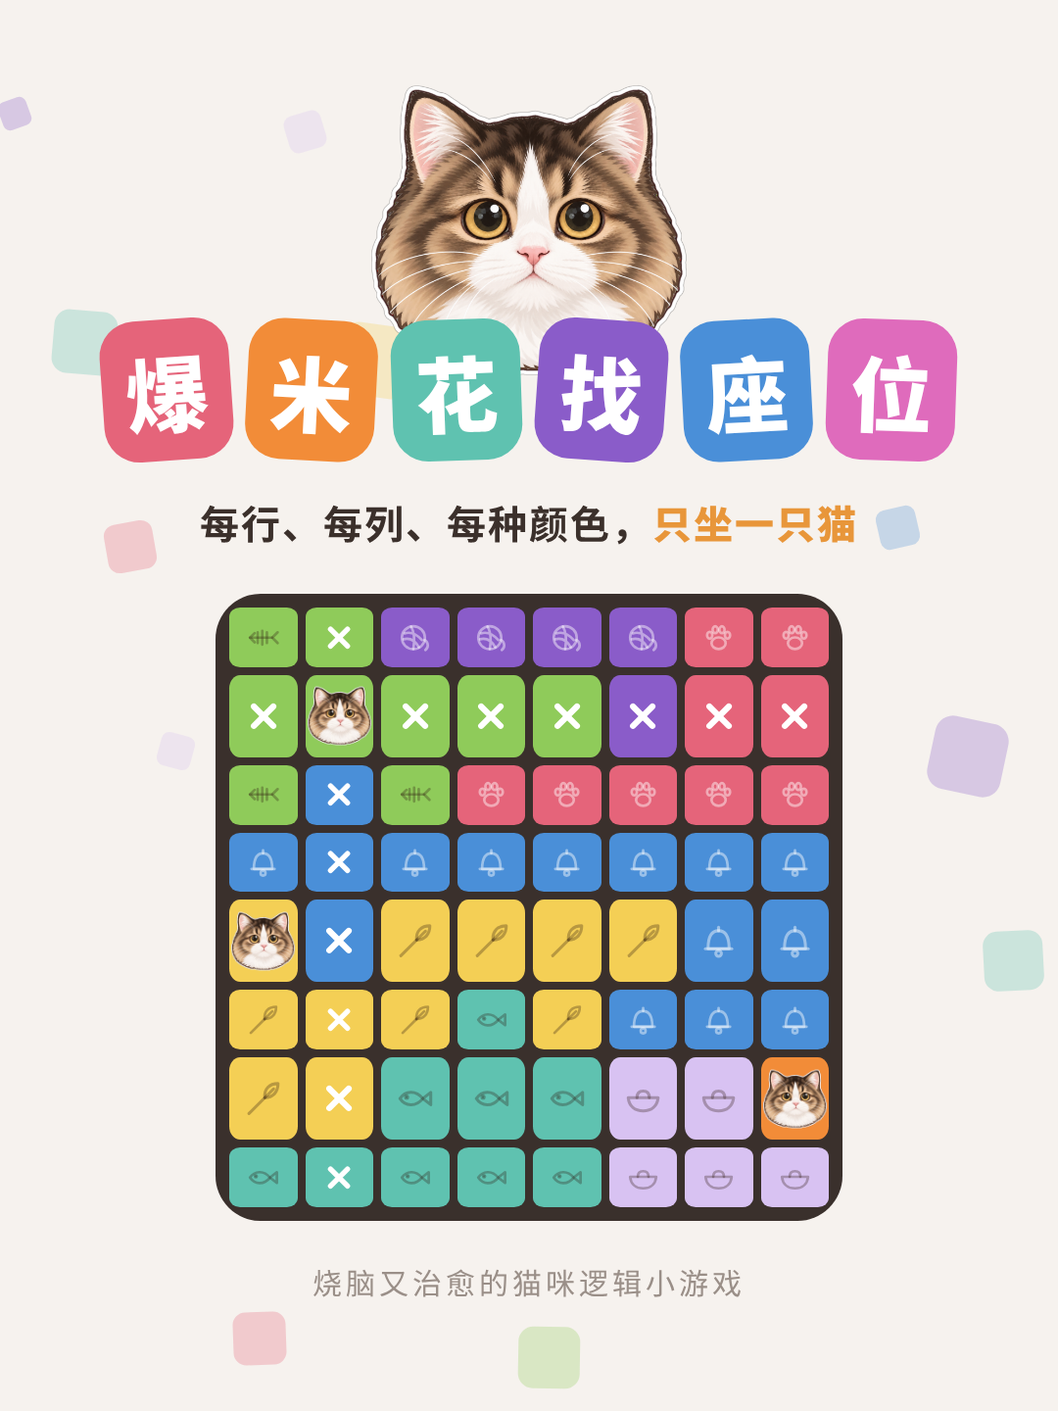
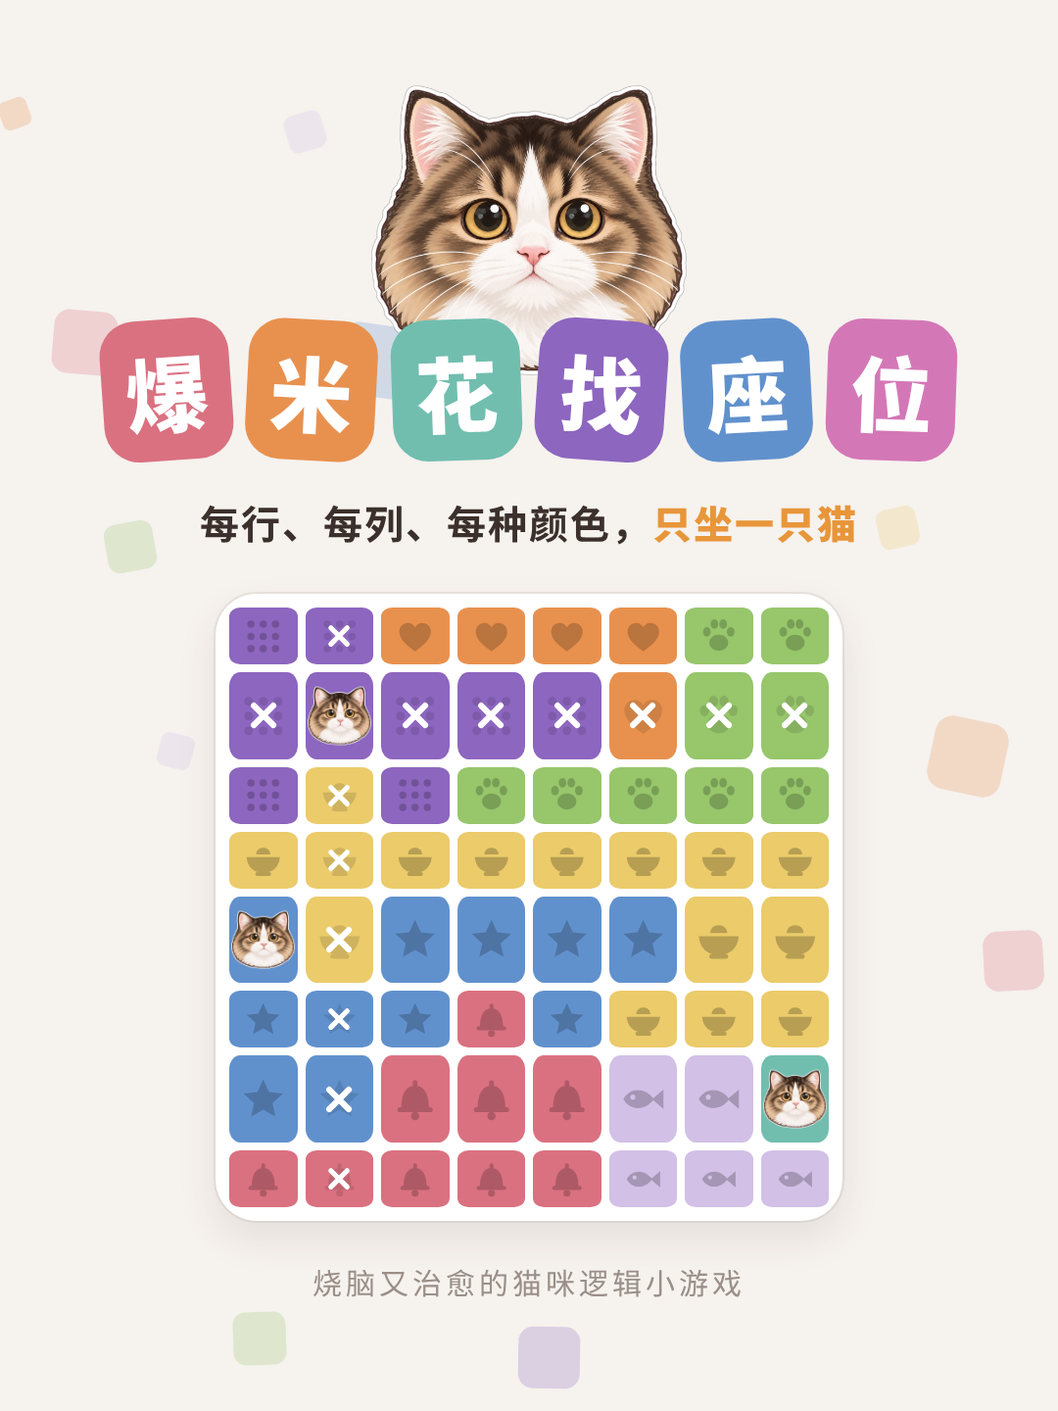
原型 v1.8：格子图案重排，12种图案轮廓结构各不相同（只留圆点一种方阵，其余为大爱心、猫爪、猫碗、星星、铃铛、毛线球、大鱼、猫脸、斜条纹、猫薄荷、波浪）；封面换成白底棋盘新风格
Claude-Session: https://claude.ai/code/session_013PJ7PjSvMbjKJhBYBfa6R5

diff --git a/index.html b/index.html
@@ -296,7 +296,7 @@ body.th-halloween .lv.hard { background: #F6DCE6; }
   <div class="brand">
     <img id="brandImg" alt="">
     <h1 class="logo" id="logo" aria-label="爆米花找座位"></h1>
-    <p>原型 v1.8 · 白底棋盘、纹理图案</p>
+    <p>原型 v1.8 · 白底棋盘、新图案</p>
   </div>
   <div class="homebar">
     <button class="pill" id="cansPill" title="商店"><svg viewBox="0 0 24 24" aria-hidden="true"><use class="curuse" href="#can"/></svg><b id="homeCans">0</b></button>
@@ -512,18 +512,19 @@ body.th-halloween .lv.hard { background: #F6DCE6; }
     <symbol id="r-reg" viewBox="0 0 30 30"><rect x="1" y="1" width="28" height="28" rx="7" fill="#F2F2F7"/><path d="M4 4 H18 V12 H26 V26 H12 V18 H4 Z" fill="#C9B2FF"/><circle cx="20" cy="19" r="2.8" fill="#1C1C1E"/><path d="M7 7 l3 3 m0 -3 l-3 3" stroke="#8E8E93" stroke-width="1.4" stroke-linecap="round"/></symbol>
     <symbol id="r-adj" viewBox="0 0 30 30"><rect x="1" y="1" width="28" height="28" rx="7" fill="#F2F2F7"/><rect x="6" y="6" width="18" height="18" rx="4" fill="#FFB3C7"/><circle cx="15" cy="15" r="2.8" fill="#1C1C1E"/><path d="M8 8 l2.6 2.6 m0 -2.6 l-2.6 2.6 M19.4 8 l2.6 2.6 m0 -2.6 l-2.6 2.6 M8 19.4 l2.6 2.6 m0 -2.6 l-2.6 2.6 M19.4 19.4 l2.6 2.6 m0 -2.6 l-2.6 2.6" stroke="#8E8E93" stroke-width="1.3" stroke-linecap="round"/></symbol>
     <!-- 颜色区图案：猫零食和玩具的白色剪影，一个区一个 -->
-    <symbol id="p0" viewBox="0 0 24 24"><g fill="currentColor"><path transform="translate(7.5 7.5) scale(1.1)" d="M0 3.2 C-2.6 1.4 -3.6 .2 -3.6 -1.2 C-3.6 -2.4 -2.7 -3.2 -1.7 -3.2 C-1 -3.2 -.4 -2.8 0 -2.2 C.4 -2.8 1 -3.2 1.7 -3.2 C2.7 -3.2 3.6 -2.4 3.6 -1.2 C3.6 .2 2.6 1.4 0 3.2 Z"/><path transform="translate(7.5 16.5) scale(1.1)" d="M0 3.2 C-2.6 1.4 -3.6 .2 -3.6 -1.2 C-3.6 -2.4 -2.7 -3.2 -1.7 -3.2 C-1 -3.2 -.4 -2.8 0 -2.2 C.4 -2.8 1 -3.2 1.7 -3.2 C2.7 -3.2 3.6 -2.4 3.6 -1.2 C3.6 .2 2.6 1.4 0 3.2 Z"/><path transform="translate(16.5 7.5) scale(1.1)" d="M0 3.2 C-2.6 1.4 -3.6 .2 -3.6 -1.2 C-3.6 -2.4 -2.7 -3.2 -1.7 -3.2 C-1 -3.2 -.4 -2.8 0 -2.2 C.4 -2.8 1 -3.2 1.7 -3.2 C2.7 -3.2 3.6 -2.4 3.6 -1.2 C3.6 .2 2.6 1.4 0 3.2 Z"/><path transform="translate(16.5 16.5) scale(1.1)" d="M0 3.2 C-2.6 1.4 -3.6 .2 -3.6 -1.2 C-3.6 -2.4 -2.7 -3.2 -1.7 -3.2 C-1 -3.2 -.4 -2.8 0 -2.2 C.4 -2.8 1 -3.2 1.7 -3.2 C2.7 -3.2 3.6 -2.4 3.6 -1.2 C3.6 .2 2.6 1.4 0 3.2 Z"/></g></symbol><!-- 爱心纹 -->
-    <symbol id="p1" viewBox="0 0 24 24"><g fill="currentColor"><circle cx="5" cy="5" r="2"/><circle cx="5" cy="12" r="2"/><circle cx="5" cy="19" r="2"/><circle cx="12" cy="5" r="2"/><circle cx="12" cy="12" r="2"/><circle cx="12" cy="19" r="2"/><circle cx="19" cy="5" r="2"/><circle cx="19" cy="12" r="2"/><circle cx="19" cy="19" r="2"/></g></symbol><!-- 圆点纹 -->
-    <symbol id="p2" viewBox="0 0 24 24"><g fill="currentColor"><ellipse cx="12" cy="15.4" rx="5" ry="4.2"/><ellipse cx="5.6" cy="9.6" rx="2" ry="2.5"/><ellipse cx="9.6" cy="5.6" rx="2" ry="2.5"/><ellipse cx="14.4" cy="5.6" rx="2" ry="2.5"/><ellipse cx="18.4" cy="9.6" rx="2" ry="2.5"/></g></symbol><!-- 猫爪 -->
-    <symbol id="p3" viewBox="0 0 24 24"><g fill="currentColor"><path d="M2.5 12 L6.5 8.4 V15.6 Z"/><rect x="5.5" y="11" width="13" height="2" rx="1"/><rect x="8" y="7.2" width="1.8" height="9.6" rx=".9"/><rect x="11.4" y="6.4" width="1.8" height="11.2" rx=".9"/><rect x="14.8" y="7.2" width="1.8" height="9.6" rx=".9"/><path d="M18 12 L21.8 8.2 V15.8 Z"/></g></symbol><!-- 鱼骨 -->
-    <symbol id="p4" viewBox="0 0 24 24"><g fill="currentColor"><path d="M4.7 2.9 h1.6 v1.8 h1.8 v1.6 h-1.8 v1.8 h-1.6 v-1.8 h-1.8 v-1.6 h1.8 Z"/><path d="M4.7 9.4 h1.6 v1.8 h1.8 v1.6 h-1.8 v1.8 h-1.6 v-1.8 h-1.8 v-1.6 h1.8 Z"/><path d="M4.7 15.9 h1.6 v1.8 h1.8 v1.6 h-1.8 v1.8 h-1.6 v-1.8 h-1.8 v-1.6 h1.8 Z"/><path d="M11.2 2.9 h1.6 v1.8 h1.8 v1.6 h-1.8 v1.8 h-1.6 v-1.8 h-1.8 v-1.6 h1.8 Z"/><path d="M11.2 9.4 h1.6 v1.8 h1.8 v1.6 h-1.8 v1.8 h-1.6 v-1.8 h-1.8 v-1.6 h1.8 Z"/><path d="M11.2 15.9 h1.6 v1.8 h1.8 v1.6 h-1.8 v1.8 h-1.6 v-1.8 h-1.8 v-1.6 h1.8 Z"/><path d="M17.7 2.9 h1.6 v1.8 h1.8 v1.6 h-1.8 v1.8 h-1.6 v-1.8 h-1.8 v-1.6 h1.8 Z"/><path d="M17.7 9.4 h1.6 v1.8 h1.8 v1.6 h-1.8 v1.8 h-1.6 v-1.8 h-1.8 v-1.6 h1.8 Z"/><path d="M17.7 15.9 h1.6 v1.8 h1.8 v1.6 h-1.8 v1.8 h-1.6 v-1.8 h-1.8 v-1.6 h1.8 Z"/></g></symbol><!-- 十字纹 -->
-    <symbol id="p5" viewBox="0 0 24 24"><g fill="currentColor"><path d="M5.6 16.6 C5.6 9 8.3 6 12 6 C15.7 6 18.4 9 18.4 16.6 Z"/><rect x="4" y="16" width="16" height="2.2" rx="1.1"/><circle cx="12" cy="19.8" r="1.9"/><rect x="11" y="3.6" width="2" height="3" rx="1"/></g></symbol><!-- 铃铛 -->
-    <symbol id="p6" viewBox="0 0 24 24"><g fill="currentColor"><circle cx="11.5" cy="12" r="8"/><path d="M5 9.4 C9 8 13.4 9.6 17 13.8 M4.4 13.4 C8.6 12.4 12 14 14.6 18.8 M9.6 4.4 C11.8 7.8 12.6 12 11.2 19.8" fill="none" stroke="var(--cellc)" stroke-width="1.5" stroke-linecap="round"/><path d="M19.2 14 C21.6 15.4 21.4 18.8 19 20.2" fill="none" stroke="currentColor" stroke-width="1.6" stroke-linecap="round"/></g></symbol><!-- 毛线球 -->
-    <symbol id="p7" viewBox="0 0 24 24"><g fill="currentColor"><path transform="translate(7.5 7.2) scale(1.05)" d="M-3.6 0 C-2.2 -2.2 1.2 -2.4 2.6 0 C1.2 2.4 -2.2 2.2 -3.6 0 Z M2.4 0 L4.2 -1.6 V1.6 Z"/><path transform="translate(16.5 7.2) scale(1.05)" d="M-3.6 0 C-2.2 -2.2 1.2 -2.4 2.6 0 C1.2 2.4 -2.2 2.2 -3.6 0 Z M2.4 0 L4.2 -1.6 V1.6 Z"/><path transform="translate(7.5 16.8) scale(1.05)" d="M-3.6 0 C-2.2 -2.2 1.2 -2.4 2.6 0 C1.2 2.4 -2.2 2.2 -3.6 0 Z M2.4 0 L4.2 -1.6 V1.6 Z"/><path transform="translate(16.5 16.8) scale(1.05)" d="M-3.6 0 C-2.2 -2.2 1.2 -2.4 2.6 0 C1.2 2.4 -2.2 2.2 -3.6 0 Z M2.4 0 L4.2 -1.6 V1.6 Z"/></g></symbol><!-- 小鱼纹 -->
-    <symbol id="p8" viewBox="0 0 24 24"><g fill="currentColor"><path d="M10 11 H14 L12 13.4 Z"/><path d="M9 14.2 L3 13 M9 15.6 L3 16.6 M15 14.2 L21 13 M15 15.6 L21 16.6" fill="none" stroke="currentColor" stroke-width="1.6" stroke-linecap="round"/><circle cx="8" cy="8" r="1.5"/><circle cx="16" cy="8" r="1.5"/></g></symbol><!-- 猫胡须 -->
-    <symbol id="p9" viewBox="0 0 24 24"><g fill="currentColor"><path d="M5.5 3.8 L7.9 7.8 H3.1 Z"/><path d="M5.5 10.3 L7.9 14.3 H3.1 Z"/><path d="M5.5 16.8 L7.9 20.8 H3.1 Z"/><path d="M12 3.8 L14.4 7.8 H9.6 Z"/><path d="M12 10.3 L14.4 14.3 H9.6 Z"/><path d="M12 16.8 L14.4 20.8 H9.6 Z"/><path d="M18.5 3.8 L20.9 7.8 H16.1 Z"/><path d="M18.5 10.3 L20.9 14.3 H16.1 Z"/><path d="M18.5 16.8 L20.9 20.8 H16.1 Z"/></g></symbol><!-- 猫耳纹 -->
-    <symbol id="p10" viewBox="0 0 24 24"><g fill="currentColor"><path d="M12 21 C11.6 17 11.6 13 12 9" fill="none" stroke="currentColor" stroke-width="1.7" stroke-linecap="round"/><path d="M12 12 C7.5 12.5 4.5 9.5 4 4.8 C8.7 5.2 11.7 8 12 12 Z M12 12 C16.5 12.5 19.5 9.5 20 4.8 C15.3 5.2 12.3 8 12 12 Z"/></g></symbol><!-- 猫薄荷 -->
-    <symbol id="p11" viewBox="0 0 24 24"><g fill="currentColor"><path d="M3 6.5 Q6 3.3 9 6.5 T15 6.5 T21 6.5" fill="none" stroke="currentColor" stroke-width="2" stroke-linecap="round"/><path d="M3 12.5 Q6 9.3 9 12.5 T15 12.5 T21 12.5" fill="none" stroke="currentColor" stroke-width="2" stroke-linecap="round"/><path d="M3 18.5 Q6 15.3 9 18.5 T15 18.5 T21 18.5" fill="none" stroke="currentColor" stroke-width="2" stroke-linecap="round"/></g></symbol><!-- 波浪纹 -->
+    <clipPath id="pClip"><rect x="2" y="2" width="20" height="20" rx="4"/></clipPath>
+    <symbol id="p0" viewBox="0 0 24 24"><g fill="currentColor"><path d="M12 20.5 C5.5 16 3 12.8 3 9.2 C3 6.4 5.2 4.3 7.9 4.3 C9.7 4.3 11.2 5.3 12 6.8 C12.8 5.3 14.3 4.3 16.1 4.3 C18.8 4.3 21 6.4 21 9.2 C21 12.8 18.5 16 12 20.5 Z"/></g></symbol><!-- 大爱心 -->
+    <symbol id="p1" viewBox="0 0 24 24"><g fill="currentColor"><circle cx="5" cy="5" r="2.1"/><circle cx="5" cy="12" r="2.1"/><circle cx="5" cy="19" r="2.1"/><circle cx="12" cy="5" r="2.1"/><circle cx="12" cy="12" r="2.1"/><circle cx="12" cy="19" r="2.1"/><circle cx="19" cy="5" r="2.1"/><circle cx="19" cy="12" r="2.1"/><circle cx="19" cy="19" r="2.1"/></g></symbol><!-- 圆点阵 -->
+    <symbol id="p2" viewBox="0 0 24 24"><g fill="currentColor"><ellipse cx="12" cy="15.6" rx="5.4" ry="4.6"/><ellipse cx="5.2" cy="9.4" rx="2.2" ry="2.7"/><ellipse cx="9.5" cy="5" rx="2.2" ry="2.7"/><ellipse cx="14.5" cy="5" rx="2.2" ry="2.7"/><ellipse cx="18.8" cy="9.4" rx="2.2" ry="2.7"/></g></symbol><!-- 猫爪 -->
+    <symbol id="p3" viewBox="0 0 24 24"><g fill="currentColor"><path d="M2.5 10.5 H21.5 C21 16.5 17 19.5 12 19.5 C7 19.5 3 16.5 2.5 10.5 Z"/><rect x="7.5" y="19" width="9" height="2.2" rx="1.1"/><path d="M8 9 C8 6.5 9.8 5.2 12 5.2 C14.2 5.2 16 6.5 16 9 Z"/></g></symbol><!-- 猫碗 -->
+    <symbol id="p4" viewBox="0 0 24 24"><g fill="currentColor"><path d="M12 2.6 L14.8 8.6 L21.4 9.3 L16.4 13.8 L17.8 20.3 L12 17 L6.2 20.3 L7.6 13.8 L2.6 9.3 L9.2 8.6 Z"/></g></symbol><!-- 星星 -->
+    <symbol id="p5" viewBox="0 0 24 24"><g fill="currentColor"><path d="M5.4 16.4 C5.4 8.8 8.2 5.6 12 5.6 C15.8 5.6 18.6 8.8 18.6 16.4 Z"/><rect x="3.6" y="15.8" width="16.8" height="2.4" rx="1.2"/><circle cx="12" cy="20" r="2"/><rect x="10.9" y="3" width="2.2" height="3.4" rx="1.1"/></g></symbol><!-- 铃铛 -->
+    <symbol id="p6" viewBox="0 0 24 24"><g fill="currentColor"><circle cx="11.5" cy="12" r="8.6"/><path d="M4.6 9.2 C9 7.8 13.6 9.6 17.4 14 M4 13.4 C8.6 12.4 12.2 14.2 14.8 19.2 M9.4 3.8 C11.8 7.4 12.6 12 11.2 20.4" fill="none" stroke="var(--cellc)" stroke-width="1.6" stroke-linecap="round"/><path d="M19.6 14.4 C22 15.8 21.8 19.2 19.4 20.6" fill="none" stroke="currentColor" stroke-width="1.8" stroke-linecap="round"/></g></symbol><!-- 毛线球 -->
+    <symbol id="p7" viewBox="0 0 24 24"><g fill="currentColor"><path d="M2.5 12 C5.5 6.6 12.5 6 17 12 C12.5 18 5.5 17.4 2.5 12 Z"/><path d="M16.2 12 L21.6 7.4 V16.6 Z"/><circle cx="7" cy="11" r="1.2" fill="var(--cellc)"/></g></symbol><!-- 大鱼 -->
+    <symbol id="p8" viewBox="0 0 24 24"><g fill="currentColor"><ellipse cx="8.2" cy="9" rx="1.7" ry="2.2"/><ellipse cx="15.8" cy="9" rx="1.7" ry="2.2"/><path d="M9.8 13 H14.2 L12 15.6 Z"/><path d="M8.6 15.4 L2.6 14 M8.6 17.2 L2.6 18.4 M15.4 15.4 L21.4 14 M15.4 17.2 L21.4 18.4" fill="none" stroke="currentColor" stroke-width="1.8" stroke-linecap="round"/></g></symbol><!-- 猫脸胡须 -->
+    <symbol id="p9" viewBox="0 0 24 24"><g fill="currentColor"><g clip-path="url(#pClip)"><path d="M-18 26 L8 0" fill="none" stroke="currentColor" stroke-width="3" stroke-linecap="round"/><path d="M-10 26 L16 0" fill="none" stroke="currentColor" stroke-width="3" stroke-linecap="round"/><path d="M-2 26 L24 0" fill="none" stroke="currentColor" stroke-width="3" stroke-linecap="round"/><path d="M6 26 L32 0" fill="none" stroke="currentColor" stroke-width="3" stroke-linecap="round"/></g></g></symbol><!-- 斜条纹 -->
+    <symbol id="p10" viewBox="0 0 24 24"><g fill="currentColor"><path d="M12 21.5 C11.6 17 11.6 13 12 9.4" fill="none" stroke="currentColor" stroke-width="1.9" stroke-linecap="round"/><path d="M12 12.4 C7 13 3.6 9.6 3 4.4 C8.2 4.8 11.6 8 12 12.4 Z M12 12.4 C17 13 20.4 9.6 21 4.4 C15.8 4.8 12.4 8 12 12.4 Z"/></g></symbol><!-- 猫薄荷 -->
+    <symbol id="p11" viewBox="0 0 24 24"><g fill="currentColor"><path d="M2.5 6.5 Q5.6 3.1 8.8 6.5 T15.1 6.5 T21.4 6.5" fill="none" stroke="currentColor" stroke-width="2.2" stroke-linecap="round"/><path d="M2.5 12.5 Q5.6 9.1 8.8 12.5 T15.1 12.5 T21.4 12.5" fill="none" stroke="currentColor" stroke-width="2.2" stroke-linecap="round"/><path d="M2.5 18.5 Q5.6 15.1 8.8 18.5 T15.1 18.5 T21.4 18.5" fill="none" stroke="currentColor" stroke-width="2.2" stroke-linecap="round"/></g></symbol><!-- 波浪纹 -->
   </defs>
 </svg>
 
@@ -912,7 +913,7 @@ function tick() {
 function colorOf(g) { return REGION_COLORS[G.colors[g]]; }
 /* 图案颜色：同一种颜色压暗一点（像布料上的暗纹），--cellc 给毛线球“刻线”用 */
 function shade(hex, k) { return "#" + [1, 3, 5].map(i => Math.round(parseInt(hex.slice(i, i + 2), 16) * k).toString(16).padStart(2, "0")).join(""); }
-function patInk(g) { const c = colorOf(g); return `color:${shade(c, LABS[G.colors[g]][0] > 75 ? .84 : .8)};--cellc:${c}`; }
+function patInk(g) { const c = colorOf(g); return `color:${shade(c, LABS[G.colors[g]][0] > 75 ? .78 : .8)};--cellc:${c}`; }
 function buildBoard() {
   const { n, reg } = G, b = $("board");
   b.style.setProperty("--n", n);

diff --git a/src/template.html b/src/template.html
@@ -296,7 +296,7 @@ body.th-halloween .lv.hard { background: #F6DCE6; }
   <div class="brand">
     <img id="brandImg" alt="">
     <h1 class="logo" id="logo" aria-label="爆米花找座位"></h1>
-    <p>原型 v1.8 · 白底棋盘、纹理图案</p>
+    <p>原型 v1.8 · 白底棋盘、新图案</p>
   </div>
   <div class="homebar">
     <button class="pill" id="cansPill" title="商店"><svg viewBox="0 0 24 24" aria-hidden="true"><use class="curuse" href="#can"/></svg><b id="homeCans">0</b></button>
@@ -512,18 +512,19 @@ body.th-halloween .lv.hard { background: #F6DCE6; }
     <symbol id="r-reg" viewBox="0 0 30 30"><rect x="1" y="1" width="28" height="28" rx="7" fill="#F2F2F7"/><path d="M4 4 H18 V12 H26 V26 H12 V18 H4 Z" fill="#C9B2FF"/><circle cx="20" cy="19" r="2.8" fill="#1C1C1E"/><path d="M7 7 l3 3 m0 -3 l-3 3" stroke="#8E8E93" stroke-width="1.4" stroke-linecap="round"/></symbol>
     <symbol id="r-adj" viewBox="0 0 30 30"><rect x="1" y="1" width="28" height="28" rx="7" fill="#F2F2F7"/><rect x="6" y="6" width="18" height="18" rx="4" fill="#FFB3C7"/><circle cx="15" cy="15" r="2.8" fill="#1C1C1E"/><path d="M8 8 l2.6 2.6 m0 -2.6 l-2.6 2.6 M19.4 8 l2.6 2.6 m0 -2.6 l-2.6 2.6 M8 19.4 l2.6 2.6 m0 -2.6 l-2.6 2.6 M19.4 19.4 l2.6 2.6 m0 -2.6 l-2.6 2.6" stroke="#8E8E93" stroke-width="1.3" stroke-linecap="round"/></symbol>
     <!-- 颜色区图案：猫零食和玩具的白色剪影，一个区一个 -->
-    <symbol id="p0" viewBox="0 0 24 24"><g fill="currentColor"><path transform="translate(7.5 7.5) scale(1.1)" d="M0 3.2 C-2.6 1.4 -3.6 .2 -3.6 -1.2 C-3.6 -2.4 -2.7 -3.2 -1.7 -3.2 C-1 -3.2 -.4 -2.8 0 -2.2 C.4 -2.8 1 -3.2 1.7 -3.2 C2.7 -3.2 3.6 -2.4 3.6 -1.2 C3.6 .2 2.6 1.4 0 3.2 Z"/><path transform="translate(7.5 16.5) scale(1.1)" d="M0 3.2 C-2.6 1.4 -3.6 .2 -3.6 -1.2 C-3.6 -2.4 -2.7 -3.2 -1.7 -3.2 C-1 -3.2 -.4 -2.8 0 -2.2 C.4 -2.8 1 -3.2 1.7 -3.2 C2.7 -3.2 3.6 -2.4 3.6 -1.2 C3.6 .2 2.6 1.4 0 3.2 Z"/><path transform="translate(16.5 7.5) scale(1.1)" d="M0 3.2 C-2.6 1.4 -3.6 .2 -3.6 -1.2 C-3.6 -2.4 -2.7 -3.2 -1.7 -3.2 C-1 -3.2 -.4 -2.8 0 -2.2 C.4 -2.8 1 -3.2 1.7 -3.2 C2.7 -3.2 3.6 -2.4 3.6 -1.2 C3.6 .2 2.6 1.4 0 3.2 Z"/><path transform="translate(16.5 16.5) scale(1.1)" d="M0 3.2 C-2.6 1.4 -3.6 .2 -3.6 -1.2 C-3.6 -2.4 -2.7 -3.2 -1.7 -3.2 C-1 -3.2 -.4 -2.8 0 -2.2 C.4 -2.8 1 -3.2 1.7 -3.2 C2.7 -3.2 3.6 -2.4 3.6 -1.2 C3.6 .2 2.6 1.4 0 3.2 Z"/></g></symbol><!-- 爱心纹 -->
-    <symbol id="p1" viewBox="0 0 24 24"><g fill="currentColor"><circle cx="5" cy="5" r="2"/><circle cx="5" cy="12" r="2"/><circle cx="5" cy="19" r="2"/><circle cx="12" cy="5" r="2"/><circle cx="12" cy="12" r="2"/><circle cx="12" cy="19" r="2"/><circle cx="19" cy="5" r="2"/><circle cx="19" cy="12" r="2"/><circle cx="19" cy="19" r="2"/></g></symbol><!-- 圆点纹 -->
-    <symbol id="p2" viewBox="0 0 24 24"><g fill="currentColor"><ellipse cx="12" cy="15.4" rx="5" ry="4.2"/><ellipse cx="5.6" cy="9.6" rx="2" ry="2.5"/><ellipse cx="9.6" cy="5.6" rx="2" ry="2.5"/><ellipse cx="14.4" cy="5.6" rx="2" ry="2.5"/><ellipse cx="18.4" cy="9.6" rx="2" ry="2.5"/></g></symbol><!-- 猫爪 -->
-    <symbol id="p3" viewBox="0 0 24 24"><g fill="currentColor"><path d="M2.5 12 L6.5 8.4 V15.6 Z"/><rect x="5.5" y="11" width="13" height="2" rx="1"/><rect x="8" y="7.2" width="1.8" height="9.6" rx=".9"/><rect x="11.4" y="6.4" width="1.8" height="11.2" rx=".9"/><rect x="14.8" y="7.2" width="1.8" height="9.6" rx=".9"/><path d="M18 12 L21.8 8.2 V15.8 Z"/></g></symbol><!-- 鱼骨 -->
-    <symbol id="p4" viewBox="0 0 24 24"><g fill="currentColor"><path d="M4.7 2.9 h1.6 v1.8 h1.8 v1.6 h-1.8 v1.8 h-1.6 v-1.8 h-1.8 v-1.6 h1.8 Z"/><path d="M4.7 9.4 h1.6 v1.8 h1.8 v1.6 h-1.8 v1.8 h-1.6 v-1.8 h-1.8 v-1.6 h1.8 Z"/><path d="M4.7 15.9 h1.6 v1.8 h1.8 v1.6 h-1.8 v1.8 h-1.6 v-1.8 h-1.8 v-1.6 h1.8 Z"/><path d="M11.2 2.9 h1.6 v1.8 h1.8 v1.6 h-1.8 v1.8 h-1.6 v-1.8 h-1.8 v-1.6 h1.8 Z"/><path d="M11.2 9.4 h1.6 v1.8 h1.8 v1.6 h-1.8 v1.8 h-1.6 v-1.8 h-1.8 v-1.6 h1.8 Z"/><path d="M11.2 15.9 h1.6 v1.8 h1.8 v1.6 h-1.8 v1.8 h-1.6 v-1.8 h-1.8 v-1.6 h1.8 Z"/><path d="M17.7 2.9 h1.6 v1.8 h1.8 v1.6 h-1.8 v1.8 h-1.6 v-1.8 h-1.8 v-1.6 h1.8 Z"/><path d="M17.7 9.4 h1.6 v1.8 h1.8 v1.6 h-1.8 v1.8 h-1.6 v-1.8 h-1.8 v-1.6 h1.8 Z"/><path d="M17.7 15.9 h1.6 v1.8 h1.8 v1.6 h-1.8 v1.8 h-1.6 v-1.8 h-1.8 v-1.6 h1.8 Z"/></g></symbol><!-- 十字纹 -->
-    <symbol id="p5" viewBox="0 0 24 24"><g fill="currentColor"><path d="M5.6 16.6 C5.6 9 8.3 6 12 6 C15.7 6 18.4 9 18.4 16.6 Z"/><rect x="4" y="16" width="16" height="2.2" rx="1.1"/><circle cx="12" cy="19.8" r="1.9"/><rect x="11" y="3.6" width="2" height="3" rx="1"/></g></symbol><!-- 铃铛 -->
-    <symbol id="p6" viewBox="0 0 24 24"><g fill="currentColor"><circle cx="11.5" cy="12" r="8"/><path d="M5 9.4 C9 8 13.4 9.6 17 13.8 M4.4 13.4 C8.6 12.4 12 14 14.6 18.8 M9.6 4.4 C11.8 7.8 12.6 12 11.2 19.8" fill="none" stroke="var(--cellc)" stroke-width="1.5" stroke-linecap="round"/><path d="M19.2 14 C21.6 15.4 21.4 18.8 19 20.2" fill="none" stroke="currentColor" stroke-width="1.6" stroke-linecap="round"/></g></symbol><!-- 毛线球 -->
-    <symbol id="p7" viewBox="0 0 24 24"><g fill="currentColor"><path transform="translate(7.5 7.2) scale(1.05)" d="M-3.6 0 C-2.2 -2.2 1.2 -2.4 2.6 0 C1.2 2.4 -2.2 2.2 -3.6 0 Z M2.4 0 L4.2 -1.6 V1.6 Z"/><path transform="translate(16.5 7.2) scale(1.05)" d="M-3.6 0 C-2.2 -2.2 1.2 -2.4 2.6 0 C1.2 2.4 -2.2 2.2 -3.6 0 Z M2.4 0 L4.2 -1.6 V1.6 Z"/><path transform="translate(7.5 16.8) scale(1.05)" d="M-3.6 0 C-2.2 -2.2 1.2 -2.4 2.6 0 C1.2 2.4 -2.2 2.2 -3.6 0 Z M2.4 0 L4.2 -1.6 V1.6 Z"/><path transform="translate(16.5 16.8) scale(1.05)" d="M-3.6 0 C-2.2 -2.2 1.2 -2.4 2.6 0 C1.2 2.4 -2.2 2.2 -3.6 0 Z M2.4 0 L4.2 -1.6 V1.6 Z"/></g></symbol><!-- 小鱼纹 -->
-    <symbol id="p8" viewBox="0 0 24 24"><g fill="currentColor"><path d="M10 11 H14 L12 13.4 Z"/><path d="M9 14.2 L3 13 M9 15.6 L3 16.6 M15 14.2 L21 13 M15 15.6 L21 16.6" fill="none" stroke="currentColor" stroke-width="1.6" stroke-linecap="round"/><circle cx="8" cy="8" r="1.5"/><circle cx="16" cy="8" r="1.5"/></g></symbol><!-- 猫胡须 -->
-    <symbol id="p9" viewBox="0 0 24 24"><g fill="currentColor"><path d="M5.5 3.8 L7.9 7.8 H3.1 Z"/><path d="M5.5 10.3 L7.9 14.3 H3.1 Z"/><path d="M5.5 16.8 L7.9 20.8 H3.1 Z"/><path d="M12 3.8 L14.4 7.8 H9.6 Z"/><path d="M12 10.3 L14.4 14.3 H9.6 Z"/><path d="M12 16.8 L14.4 20.8 H9.6 Z"/><path d="M18.5 3.8 L20.9 7.8 H16.1 Z"/><path d="M18.5 10.3 L20.9 14.3 H16.1 Z"/><path d="M18.5 16.8 L20.9 20.8 H16.1 Z"/></g></symbol><!-- 猫耳纹 -->
-    <symbol id="p10" viewBox="0 0 24 24"><g fill="currentColor"><path d="M12 21 C11.6 17 11.6 13 12 9" fill="none" stroke="currentColor" stroke-width="1.7" stroke-linecap="round"/><path d="M12 12 C7.5 12.5 4.5 9.5 4 4.8 C8.7 5.2 11.7 8 12 12 Z M12 12 C16.5 12.5 19.5 9.5 20 4.8 C15.3 5.2 12.3 8 12 12 Z"/></g></symbol><!-- 猫薄荷 -->
-    <symbol id="p11" viewBox="0 0 24 24"><g fill="currentColor"><path d="M3 6.5 Q6 3.3 9 6.5 T15 6.5 T21 6.5" fill="none" stroke="currentColor" stroke-width="2" stroke-linecap="round"/><path d="M3 12.5 Q6 9.3 9 12.5 T15 12.5 T21 12.5" fill="none" stroke="currentColor" stroke-width="2" stroke-linecap="round"/><path d="M3 18.5 Q6 15.3 9 18.5 T15 18.5 T21 18.5" fill="none" stroke="currentColor" stroke-width="2" stroke-linecap="round"/></g></symbol><!-- 波浪纹 -->
+    <clipPath id="pClip"><rect x="2" y="2" width="20" height="20" rx="4"/></clipPath>
+    <symbol id="p0" viewBox="0 0 24 24"><g fill="currentColor"><path d="M12 20.5 C5.5 16 3 12.8 3 9.2 C3 6.4 5.2 4.3 7.9 4.3 C9.7 4.3 11.2 5.3 12 6.8 C12.8 5.3 14.3 4.3 16.1 4.3 C18.8 4.3 21 6.4 21 9.2 C21 12.8 18.5 16 12 20.5 Z"/></g></symbol><!-- 大爱心 -->
+    <symbol id="p1" viewBox="0 0 24 24"><g fill="currentColor"><circle cx="5" cy="5" r="2.1"/><circle cx="5" cy="12" r="2.1"/><circle cx="5" cy="19" r="2.1"/><circle cx="12" cy="5" r="2.1"/><circle cx="12" cy="12" r="2.1"/><circle cx="12" cy="19" r="2.1"/><circle cx="19" cy="5" r="2.1"/><circle cx="19" cy="12" r="2.1"/><circle cx="19" cy="19" r="2.1"/></g></symbol><!-- 圆点阵 -->
+    <symbol id="p2" viewBox="0 0 24 24"><g fill="currentColor"><ellipse cx="12" cy="15.6" rx="5.4" ry="4.6"/><ellipse cx="5.2" cy="9.4" rx="2.2" ry="2.7"/><ellipse cx="9.5" cy="5" rx="2.2" ry="2.7"/><ellipse cx="14.5" cy="5" rx="2.2" ry="2.7"/><ellipse cx="18.8" cy="9.4" rx="2.2" ry="2.7"/></g></symbol><!-- 猫爪 -->
+    <symbol id="p3" viewBox="0 0 24 24"><g fill="currentColor"><path d="M2.5 10.5 H21.5 C21 16.5 17 19.5 12 19.5 C7 19.5 3 16.5 2.5 10.5 Z"/><rect x="7.5" y="19" width="9" height="2.2" rx="1.1"/><path d="M8 9 C8 6.5 9.8 5.2 12 5.2 C14.2 5.2 16 6.5 16 9 Z"/></g></symbol><!-- 猫碗 -->
+    <symbol id="p4" viewBox="0 0 24 24"><g fill="currentColor"><path d="M12 2.6 L14.8 8.6 L21.4 9.3 L16.4 13.8 L17.8 20.3 L12 17 L6.2 20.3 L7.6 13.8 L2.6 9.3 L9.2 8.6 Z"/></g></symbol><!-- 星星 -->
+    <symbol id="p5" viewBox="0 0 24 24"><g fill="currentColor"><path d="M5.4 16.4 C5.4 8.8 8.2 5.6 12 5.6 C15.8 5.6 18.6 8.8 18.6 16.4 Z"/><rect x="3.6" y="15.8" width="16.8" height="2.4" rx="1.2"/><circle cx="12" cy="20" r="2"/><rect x="10.9" y="3" width="2.2" height="3.4" rx="1.1"/></g></symbol><!-- 铃铛 -->
+    <symbol id="p6" viewBox="0 0 24 24"><g fill="currentColor"><circle cx="11.5" cy="12" r="8.6"/><path d="M4.6 9.2 C9 7.8 13.6 9.6 17.4 14 M4 13.4 C8.6 12.4 12.2 14.2 14.8 19.2 M9.4 3.8 C11.8 7.4 12.6 12 11.2 20.4" fill="none" stroke="var(--cellc)" stroke-width="1.6" stroke-linecap="round"/><path d="M19.6 14.4 C22 15.8 21.8 19.2 19.4 20.6" fill="none" stroke="currentColor" stroke-width="1.8" stroke-linecap="round"/></g></symbol><!-- 毛线球 -->
+    <symbol id="p7" viewBox="0 0 24 24"><g fill="currentColor"><path d="M2.5 12 C5.5 6.6 12.5 6 17 12 C12.5 18 5.5 17.4 2.5 12 Z"/><path d="M16.2 12 L21.6 7.4 V16.6 Z"/><circle cx="7" cy="11" r="1.2" fill="var(--cellc)"/></g></symbol><!-- 大鱼 -->
+    <symbol id="p8" viewBox="0 0 24 24"><g fill="currentColor"><ellipse cx="8.2" cy="9" rx="1.7" ry="2.2"/><ellipse cx="15.8" cy="9" rx="1.7" ry="2.2"/><path d="M9.8 13 H14.2 L12 15.6 Z"/><path d="M8.6 15.4 L2.6 14 M8.6 17.2 L2.6 18.4 M15.4 15.4 L21.4 14 M15.4 17.2 L21.4 18.4" fill="none" stroke="currentColor" stroke-width="1.8" stroke-linecap="round"/></g></symbol><!-- 猫脸胡须 -->
+    <symbol id="p9" viewBox="0 0 24 24"><g fill="currentColor"><g clip-path="url(#pClip)"><path d="M-18 26 L8 0" fill="none" stroke="currentColor" stroke-width="3" stroke-linecap="round"/><path d="M-10 26 L16 0" fill="none" stroke="currentColor" stroke-width="3" stroke-linecap="round"/><path d="M-2 26 L24 0" fill="none" stroke="currentColor" stroke-width="3" stroke-linecap="round"/><path d="M6 26 L32 0" fill="none" stroke="currentColor" stroke-width="3" stroke-linecap="round"/></g></g></symbol><!-- 斜条纹 -->
+    <symbol id="p10" viewBox="0 0 24 24"><g fill="currentColor"><path d="M12 21.5 C11.6 17 11.6 13 12 9.4" fill="none" stroke="currentColor" stroke-width="1.9" stroke-linecap="round"/><path d="M12 12.4 C7 13 3.6 9.6 3 4.4 C8.2 4.8 11.6 8 12 12.4 Z M12 12.4 C17 13 20.4 9.6 21 4.4 C15.8 4.8 12.4 8 12 12.4 Z"/></g></symbol><!-- 猫薄荷 -->
+    <symbol id="p11" viewBox="0 0 24 24"><g fill="currentColor"><path d="M2.5 6.5 Q5.6 3.1 8.8 6.5 T15.1 6.5 T21.4 6.5" fill="none" stroke="currentColor" stroke-width="2.2" stroke-linecap="round"/><path d="M2.5 12.5 Q5.6 9.1 8.8 12.5 T15.1 12.5 T21.4 12.5" fill="none" stroke="currentColor" stroke-width="2.2" stroke-linecap="round"/><path d="M2.5 18.5 Q5.6 15.1 8.8 18.5 T15.1 18.5 T21.4 18.5" fill="none" stroke="currentColor" stroke-width="2.2" stroke-linecap="round"/></g></symbol><!-- 波浪纹 -->
   </defs>
 </svg>
 
@@ -912,7 +913,7 @@ function tick() {
 function colorOf(g) { return REGION_COLORS[G.colors[g]]; }
 /* 图案颜色：同一种颜色压暗一点（像布料上的暗纹），--cellc 给毛线球“刻线”用 */
 function shade(hex, k) { return "#" + [1, 3, 5].map(i => Math.round(parseInt(hex.slice(i, i + 2), 16) * k).toString(16).padStart(2, "0")).join(""); }
-function patInk(g) { const c = colorOf(g); return `color:${shade(c, LABS[G.colors[g]][0] > 75 ? .84 : .8)};--cellc:${c}`; }
+function patInk(g) { const c = colorOf(g); return `color:${shade(c, LABS[G.colors[g]][0] > 75 ? .78 : .8)};--cellc:${c}`; }
 function buildBoard() {
   const { n, reg } = G, b = $("board");
   b.style.setProperty("--n", n);
